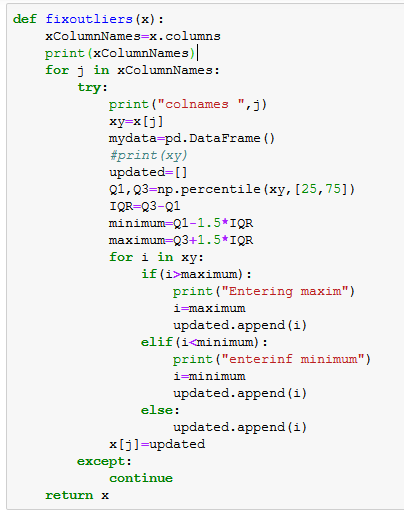
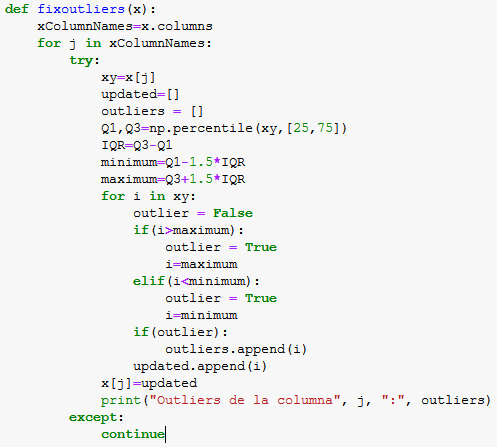
[Updated] Document

diff --git a/PRA2.md b/PRA2.md
@@ -103,6 +103,8 @@ Función para eliminar valores atítipicos:
 
 ![Atípicos](./images/outliers.PNG)
 
+![Atípicos2](./images/outliers2.PNG)
+
 ## ANÁLISIS DE LOS DATOS
 
 ### Selección de los grupos de datos que se quieren analizar/comparar (planificación de los análisis a aplicar).
@@ -126,9 +128,9 @@ Podemos observar que los p-values son menores que 0,05, lo que indica que no hay
 
 ***Homogeneidad***
 
-Continuamos estudiando la homogeneidad de varianzas mediante la aplicación de un test de Levene (Fligner-Killeen). En este caso, estudiaremos esta homogeneidad en cuanto a los grupos conformados por los pasajeros supervivientes y los no supervivientes. En el siguiente test, la hipótesis nula consiste en que ambas varianzas son iguales.
+Continuamos estudiando la homogeneidad de varianzas mediante la aplicación de un test de Levene. En este caso, estudiaremos esta homogeneidad en cuanto a los grupos conformados por los pasajeros supervivientes y los no supervivientes. En el siguiente test, la hipótesis nula consiste en que ambas varianzas son iguales.
 
-![Normaidad](./images/homogeneidad.PNG)
+![Normalidad](./images/homogeneidad.PNG)
 
 Podemos observar que el valor p es menor que 0,05, lo que indica que hay una diferencia significativa en las variaciones entre los grupos.
 
@@ -150,9 +152,7 @@ Una vez tenemos los datos listos, dividimos el conjunto en train y test, dejando
 
 Finalmente generamos el modelo de regresión logística con los datos de train y comprobamos sus prestaciones tanto para el conjunto de train como para el de test. Vemos que obtenemos una precisión de predicción de la variable "Survived" superior al 80% y los resultados obtenidos para train y test no varían en exceso, por lo que podemos considerar que los resultados son buenos y el modelo ofrece buenas prestaciones.
 
-Encontramos el código en el script MAIN.py
-
-![MAIN](./MAIN.py)
+Encontramos el código en el script [MAIN.py](./MAIN.py)
 
 ## Representación de los resultados a partir de tablas y gráficas
 
